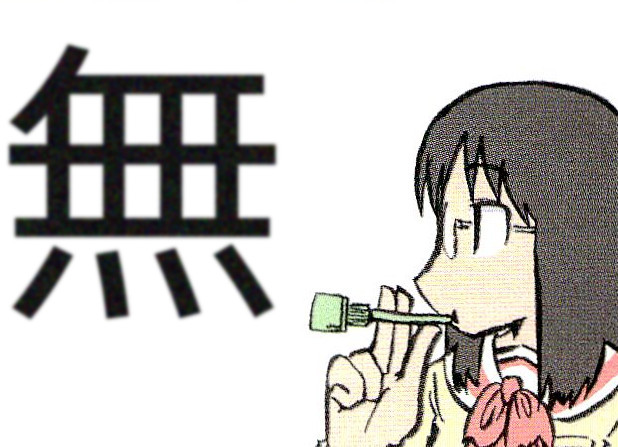
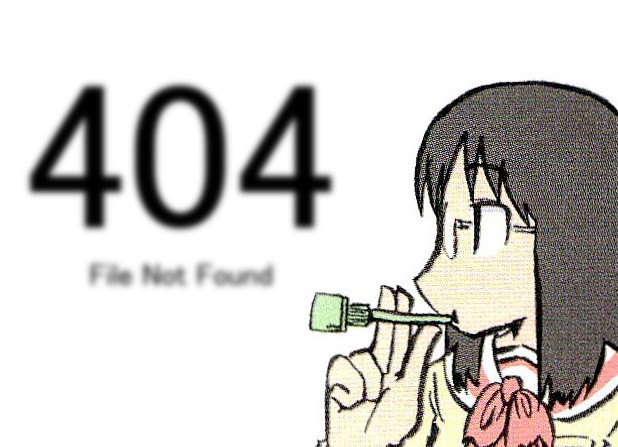
Cuter 404

Changed region(s): [[0.0, 0.0872, 0.5534, 0.7271]]

diff --git a/download.php b/download.php
@@ -11,12 +11,6 @@ if (!isset($_GET['key']))
 	die;
 $key = rawurldecode($_GET['key']);
 
-// Throw a 404 img if that key is not in the database
-/*if (!($fileinfo = db_getfileinfo($key)) {
-	$file = CONFIG_HOOYA_PATH . '/spoilers/404.jpg';
-	bmfft_xsendfile($file);
-	return;
-}*/
 $fileinfo = db_getfileinfo($key);
 // Grab some basic details for the file
 $class = $fileinfo['Class'];
@@ -24,7 +18,13 @@ $path = $fileinfo['Path'];
 $mimetype = $fileinfo['Mimetype'];
 $ftype = explode('/', $mimetype)[0];
 
-// Assume that we are sending the raw file until we can deisprove that
+if (!file_exists($path)) {
+	$file = CONFIG_HOOYA_PATH . 'spoilers/404.jpg';
+	bmfft_xsendfile($file);
+	return;
+}
+
+// Assume that we are sending the raw file until we can disprove that
 $file = $path;
 
 // Handle thumbnail requests
